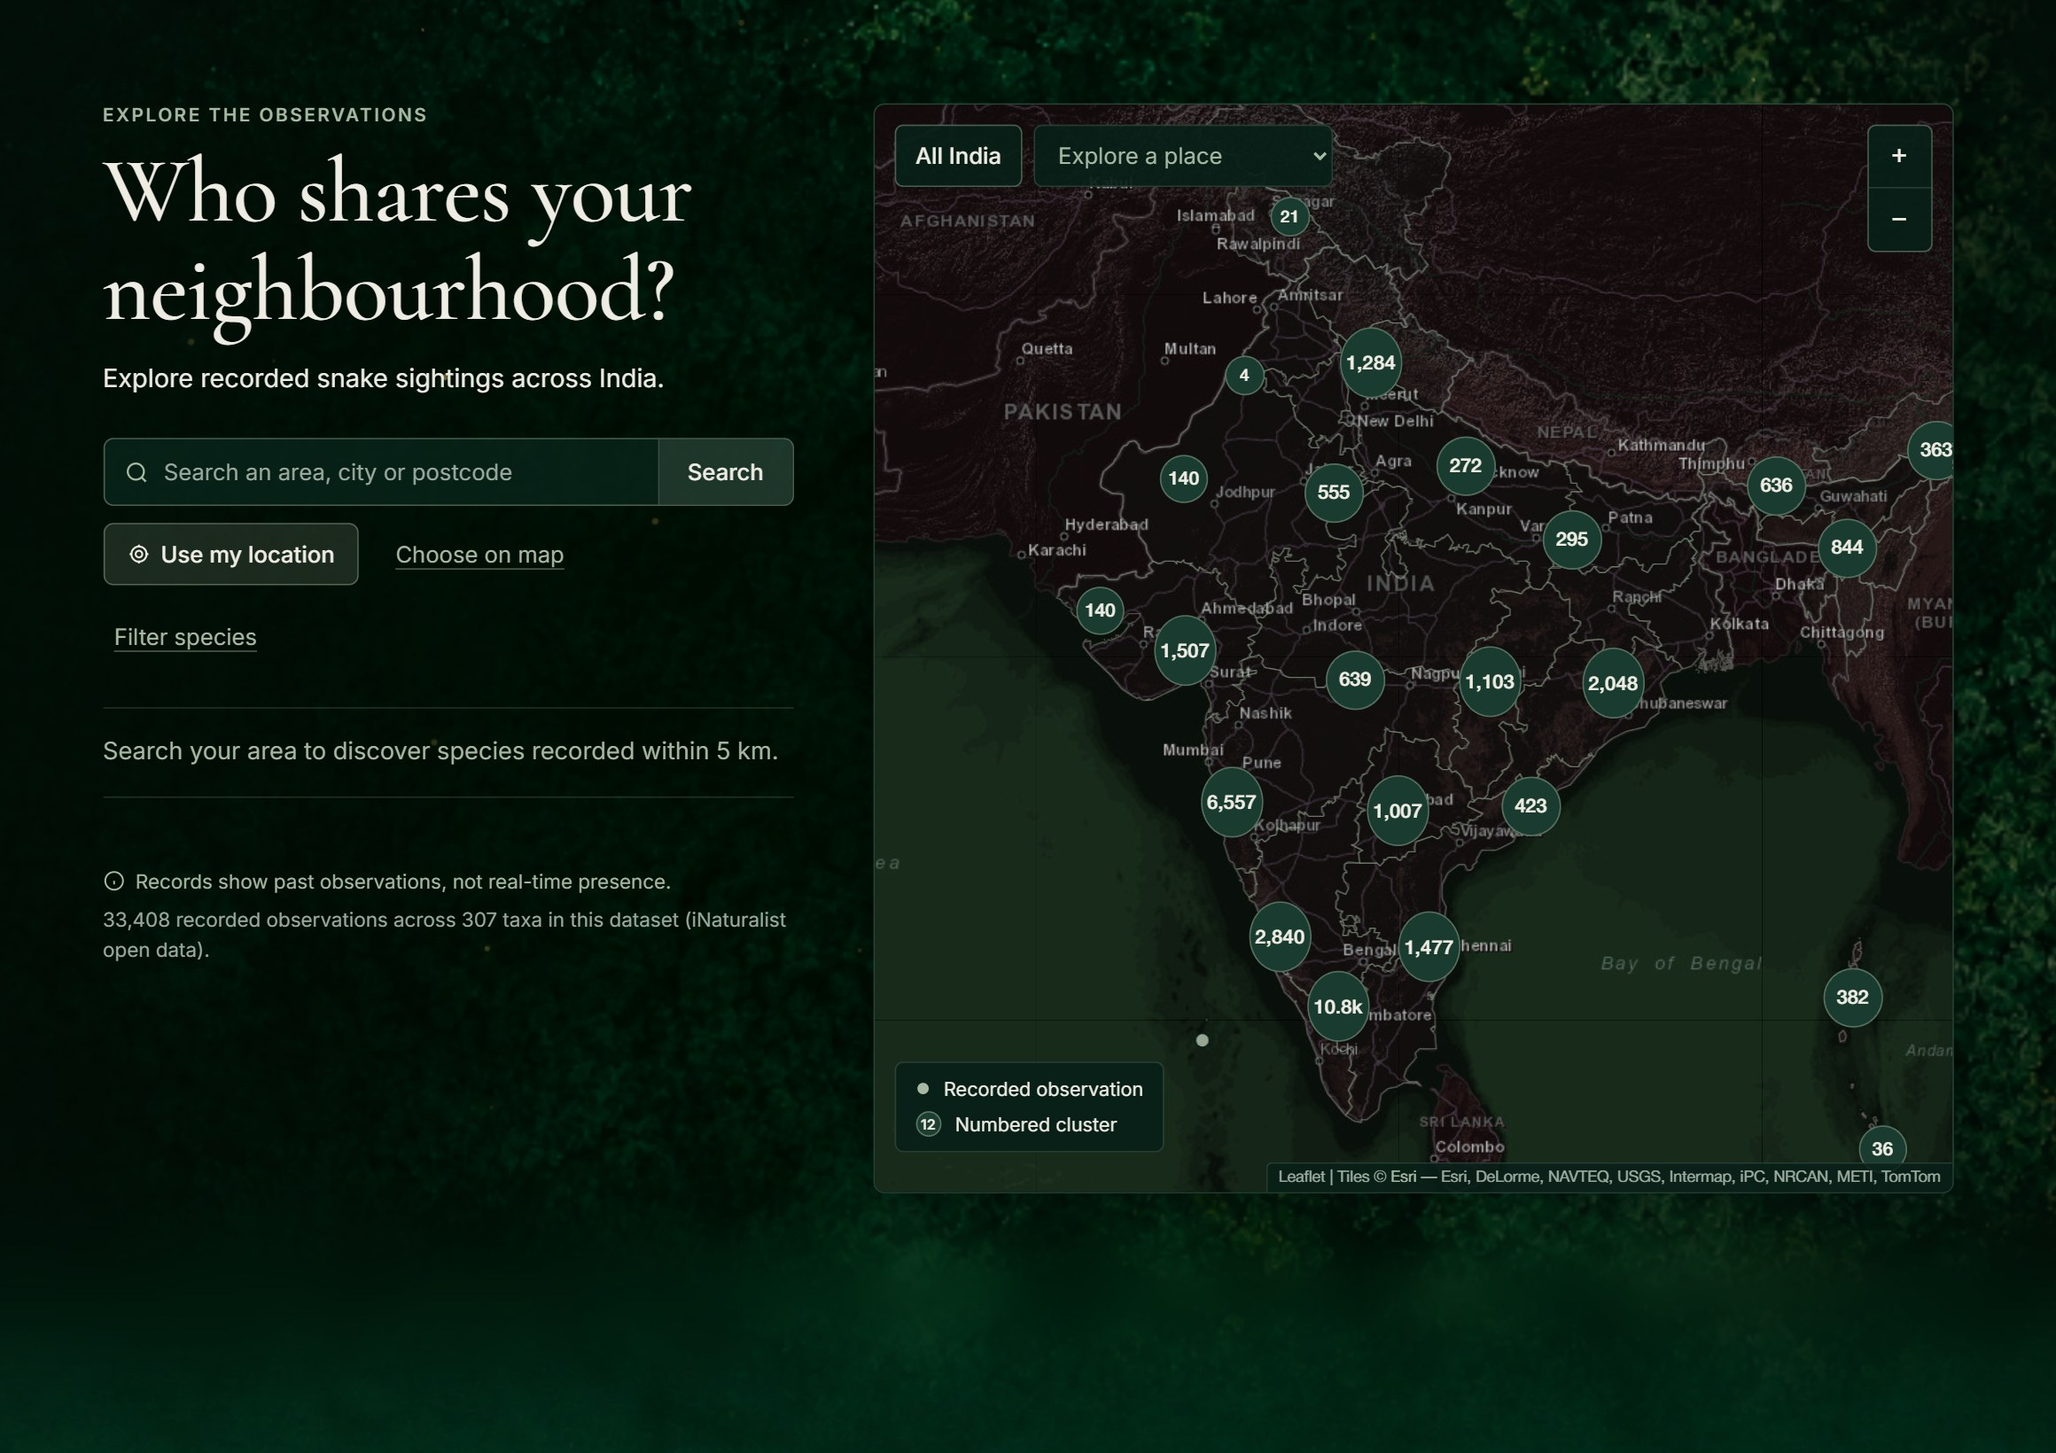
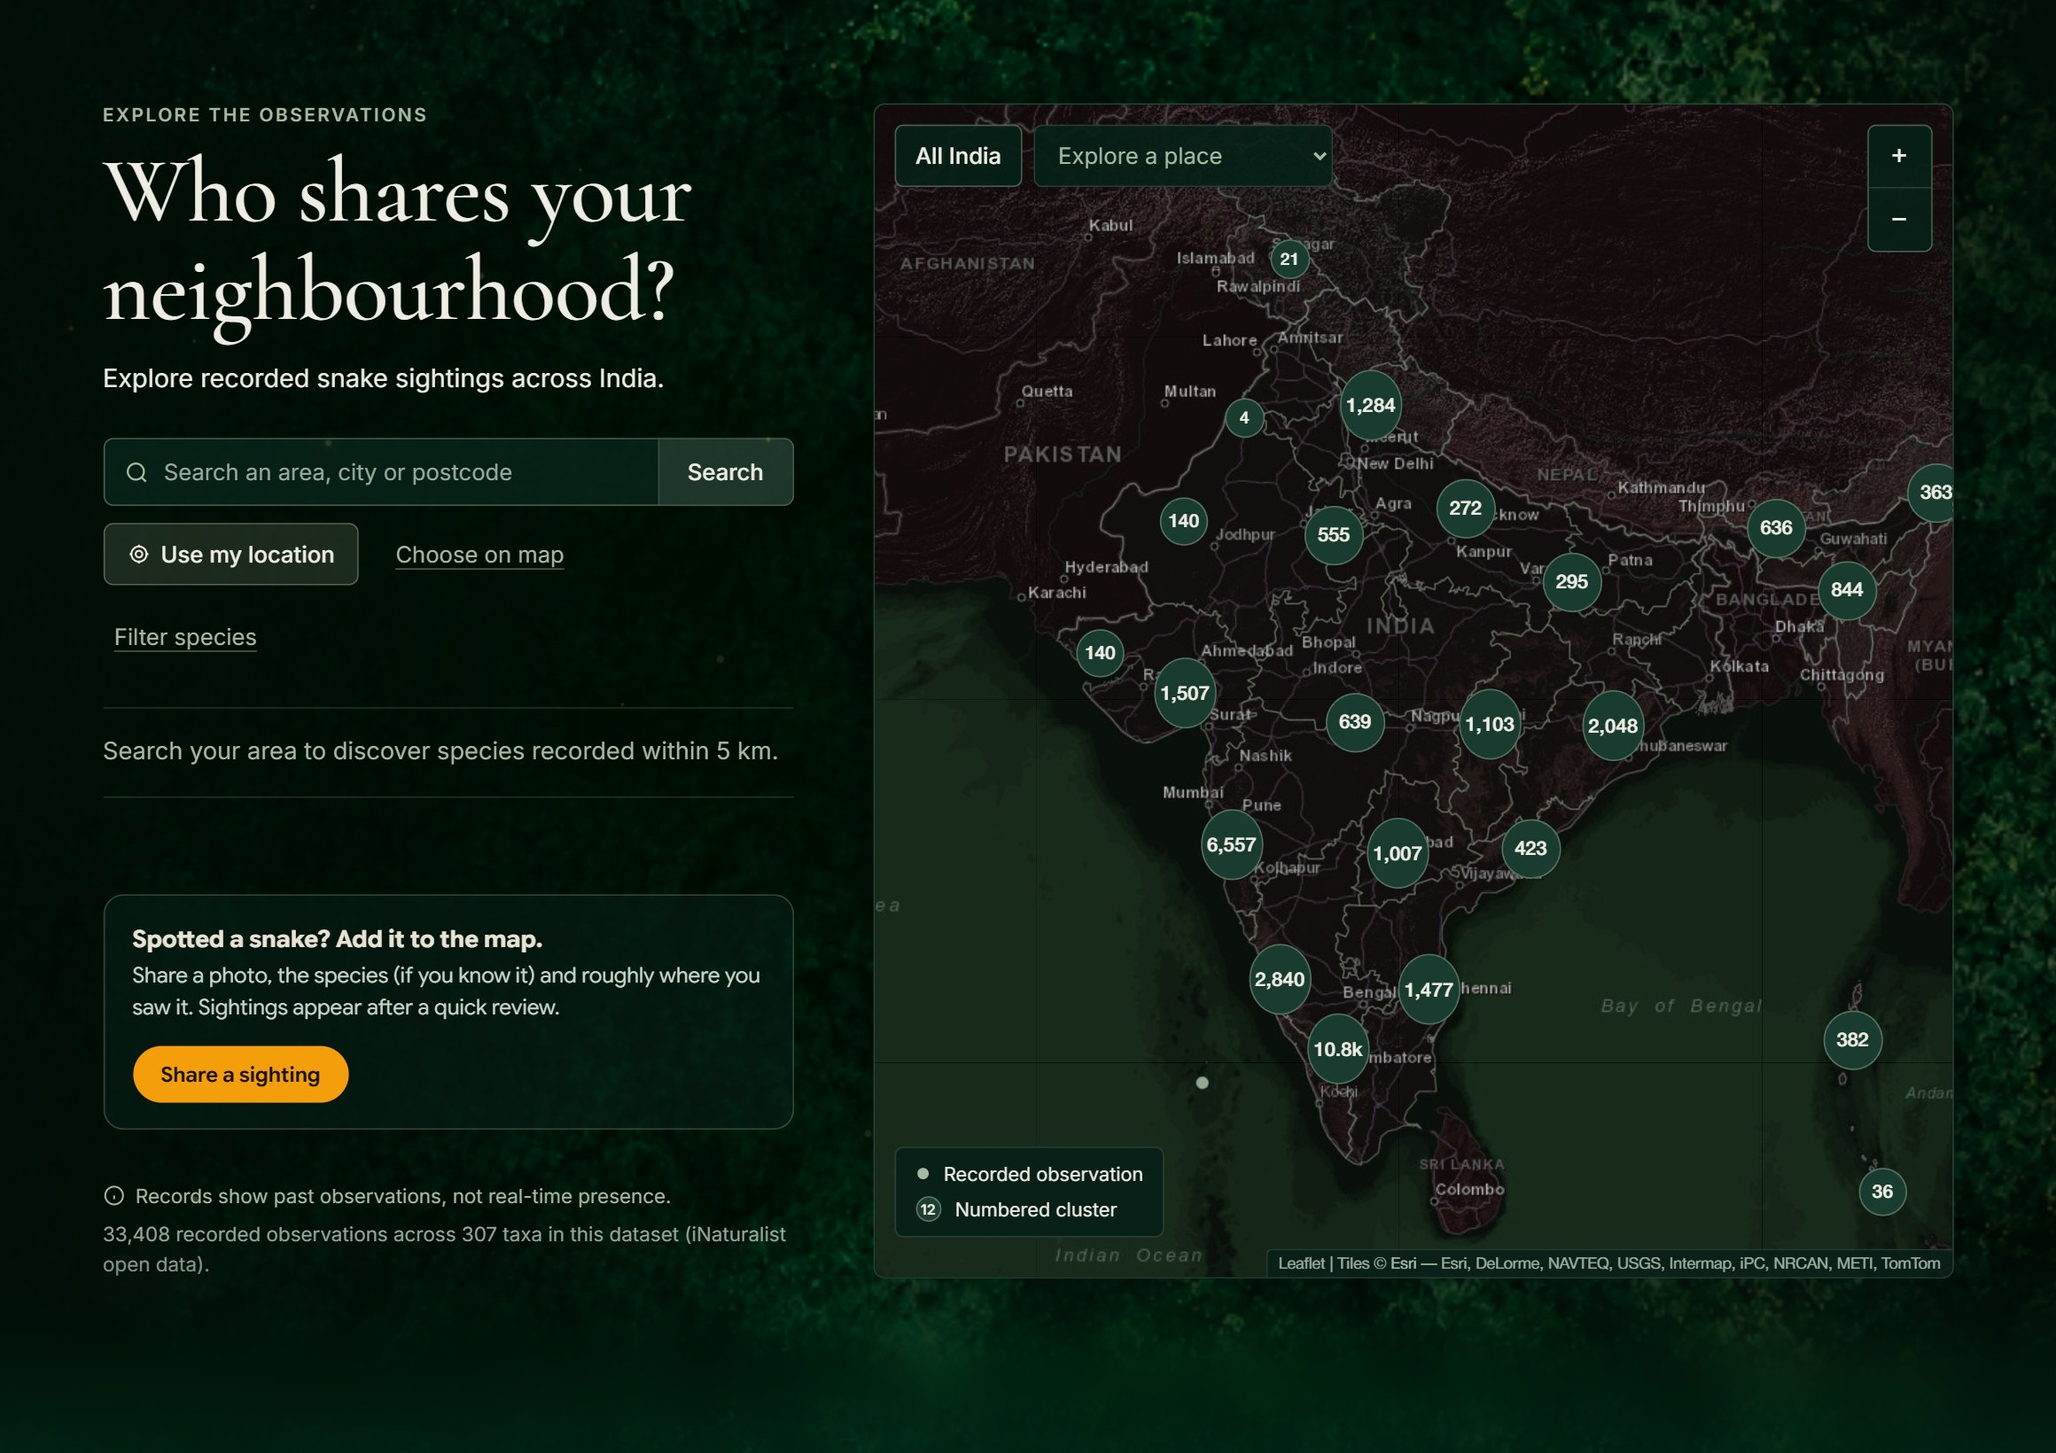
Styled project names, soft fade between projects, new snakebite link with sighting form

diff --git a/index.html b/index.html
@@ -5,7 +5,7 @@
 <meta name="viewport" content="width=device-width, initial-scale=1">
 <title>Jury Presentation</title>
 <link rel="preconnect" href="https://fonts.googleapis.com">
-<link rel="stylesheet" href="https://fonts.googleapis.com/css2?family=Cormorant+Garamond:ital,wght@0,500;0,600;1,500&family=Figtree:ital,wght@0,400;0,600;0,800;1,400&family=Schibsted+Grotesk:wght@400;500;700;800&display=swap">
+<link rel="stylesheet" href="https://fonts.googleapis.com/css2?family=Cormorant+Garamond:ital,wght@0,500;0,600;1,500&family=Figtree:ital,wght@0,400;0,600;0,800;1,400&family=Yatra+One&family=Schibsted+Grotesk:wght@400;500;700;800&display=swap">
 <style>
 /* VOICE: a spoken jury talk — one idea per screen, the work carries it.
    IDEA: one continuous canvas; every next screen hides inside a detail of the one before and the camera dives in.
@@ -45,6 +45,9 @@ img{display:block}
 .q .ring img{position:absolute;inset:0;width:100%;height:100%;object-fit:cover;transition:transform .6s}
 .q .ring:hover img{transform:scale(1.06)}
 .q .ring .port{left:55px;top:133px;width:260px;height:146px}
+.nm{position:absolute;inset:0;display:flex;flex-direction:column;align-items:center;justify-content:center;pointer-events:none}
+.nm-f{font:500 70px/.9 "Cormorant Garamond",Georgia,serif;color:#f0e9d8;background:radial-gradient(circle,rgba(4,16,10,.72),rgba(4,16,10,.3) 75%)}.nm-f i{font-size:66px;font-style:italic;margin-top:4px}
+.nm-s{font:400 92px/1 "Yatra One",Figtree,system-ui;color:#fff;background:radial-gradient(circle,rgba(16,50,120,.82) 25%,rgba(16,50,120,.45) 85%)}
 .q p{font-size:36px;line-height:1.15;font-weight:700;margin-top:44px;text-wrap:balance}
 .q small{display:block;font-size:22px;color:#6b6b66;margin-top:14px;font-weight:500}
 /* ---------- fear (forest + serif) ---------- */
@@ -53,7 +56,7 @@ img{display:block}
 .fe .lab{font-size:20px;letter-spacing:.12em;text-transform:uppercase;color:var(--grn);font-weight:700}
 .fe .mute{color:#a9b8a8}
 .tl{display:flex;gap:14px;align-items:flex-start;margin-top:18px;font-size:20px;line-height:1.3;color:#e8efe4}.tl b{flex:none;width:34px;height:34px;border-radius:50%;background:var(--grn);color:#0b1a12;display:grid;place-items:center;font-size:19px}.tl u{text-decoration:none;color:var(--grn);font-weight:700}
-.hr{position:absolute;box-sizing:border-box;border:3px solid #6fd39f;border-radius:12px;box-shadow:0 0 0 4px rgba(111,211,159,.18),0 0 24px rgba(111,211,159,.5);animation:hp 2s ease-in-out infinite}.hr b{position:absolute;width:38px;height:38px;border-radius:50%;background:#6fd39f;color:#0b1a12;display:grid;place-items:center;font-size:21px;font-style:normal}.hr b.l{left:-48px;top:7px}.hr b.r{right:-48px;top:5px}.hr b.c{left:-22px;top:-22px}@keyframes hp{50%{box-shadow:0 0 0 9px rgba(111,211,159,.08),0 0 30px rgba(111,211,159,.7)}}
+.hr{position:absolute;box-sizing:border-box;border:3px solid #6fd39f;border-radius:12px;box-shadow:0 0 0 4px rgba(111,211,159,.18),0 0 24px rgba(111,211,159,.5);animation:hp 2s ease-in-out infinite}.hr.am{border-color:#e8b04a;box-shadow:0 0 0 4px rgba(232,176,74,.18),0 0 24px rgba(232,176,74,.45);animation:none}.hr.am b{background:#e8b04a!important}.tl b.am{background:var(--amb)}.tl u.am{color:var(--amb)}.p2{transition:opacity .4s}#fP:has([data-b="3"].on) .p2,#fP:has([data-b="3"].on) #hl{opacity:0}.hr b{position:absolute;width:38px;height:38px;border-radius:50%;background:#6fd39f;color:#0b1a12;display:grid;place-items:center;font-size:21px;font-style:normal}.hr b.l{left:-48px;top:7px}.hr b.r{right:-48px;top:5px}.hr b.c{left:-22px;top:-22px}@keyframes hp{50%{box-shadow:0 0 0 9px rgba(111,211,159,.08),0 0 30px rgba(111,211,159,.7)}}
 #fs{position:fixed;inset:0;z-index:50;background:#06100a;display:none}#fs.on{display:block}#fs iframe{width:100%;height:100%;border:0}
 #fsDone{position:absolute;left:14px;top:14px;height:44px;min-width:230px;padding:0 22px;border-radius:999px;border:0;background:#6fd39f;color:#0b1a12;font:700 17px/1 "Schibsted Grotesk",system-ui,sans-serif;cursor:pointer;box-shadow:0 4px 18px rgba(0,0,0,.45)}
 #fsTip{position:absolute;left:14px;top:66px;font:14px system-ui;color:#c9d8c9;background:rgba(6,16,10,.7);padding:6px 12px;border-radius:999px;pointer-events:none}
@@ -82,6 +85,7 @@ body.infs #hud,body.infs #hint{display:none}
 .node{position:absolute;width:26px;height:26px;border-radius:50%;background:var(--blue);border:5px solid #f3f7fd;box-shadow:0 0 0 2px var(--blue)}
 .nl{position:absolute;font-size:19px;color:#33415c;text-align:center;line-height:1.2}
 /* ---------- HUD ---------- */
+#veil{position:fixed;inset:0;z-index:4;opacity:0;pointer-events:none;transition:opacity .4s ease}#veil.on{opacity:1}
 #hud{position:fixed;left:50%;bottom:14px;transform:translateX(-50%);display:flex;align-items:center;gap:4px;padding:5px;border-radius:14px;background:rgba(255,255,255,.9);border:1px solid rgba(0,0,0,.08);backdrop-filter:blur(10px);box-shadow:0 10px 30px -12px rgba(0,0,0,.35);opacity:.25;transition:opacity .3s;z-index:5}
 #hud:hover,#hud:focus-within{opacity:1}
 #hud button{all:unset;cursor:pointer;min-width:44px;height:44px;display:grid;place-items:center;border-radius:10px;font:600 15px "Schibsted Grotesk",sans-serif;color:#141414;padding:0 12px}
@@ -104,9 +108,9 @@ body.infs #hud,body.infs #hint{display:none}
 </section>
 
 <section class="scr op" id="s02" data-in="s01 p-dots" data-name="Three questions">
-  <div class="q" style="left:100px"><div class="ring c1" style="--rc:#163a28" data-go-to="f1"><img src="img/v/f-diversity.jpg" alt="" style="object-position:62% 50%"><div class="port" id="p-q1"></div></div><p>Why do we fear what we don't understand?<small>The Fear Between Us</small></p></div>
+  <div class="q" style="left:100px"><div class="ring c1" style="--rc:#163a28" data-go-to="f1"><img src="img/v/f-diversity.jpg" alt="" style="object-position:62% 50%"><div class="nm nm-f">The Fear<i>Between Us</i></div><div class="port" id="p-q1"></div></div><p>Why do we fear what we don't understand?<small>The Fear Between Us</small></p></div>
   <div class="q" style="left:580px"><div class="ring c2" style="--rc:#111" data-go-to="t1"><img src="img/v/tw13.jpg" alt="" style="transform-origin:50% 45%"><div class="port" id="p-q2"></div></div><p>How do children meet history?<small>Time Wanderers</small></p></div>
-  <div class="q" style="left:1060px"><div class="ring c3" style="--rc:#2456c8" data-go-to="a1"><img src="img/v/room.jpg" alt="" style="object-position:55% 50%"><div class="port" id="p-q3"></div></div><p>How do you prepare for a place you've never been?<small>Saath</small></p></div>
+  <div class="q" style="left:1060px"><div class="ring c3" style="--rc:#2456c8" data-go-to="a1"><img src="img/v/room.jpg" alt="" style="object-position:55% 50%"><div class="nm nm-s">Saath</div><div class="port" id="p-q3"></div></div><p>How do you prepare for a place you've never been?<small>Saath</small></p></div>
 </section>
 
 <!-- =================== 1 · THE FEAR BETWEEN US =================== -->
@@ -124,18 +128,27 @@ body.infs #hud,body.infs #hint{display:none}
   <div id="fpA" style="transition:opacity .5s"><p class="lab abs" style="left:60px;top:70px">The prototype · live</p>
   <h2 class="serif abs" style="left:56px;top:110px;font-size:64px;line-height:1;width:300px">Scroll it with the jury.</h2>
   <div class="abs" style="left:60px;top:400px;width:300px;color:#e8efe4"><span class="chip">iNaturalist data</span><span class="chip">Leaflet maps</span><span class="chip">HTML · CSS · JS</span></div></div>
-  <div data-b="2" class="abs" style="left:56px;top:70px;width:320px"><p class="lab">The tool we built</p>
+  <div data-b="2" class="abs p2" style="left:56px;top:70px;width:320px"><p class="lab">The tool we built</p>
     <h2 class="serif" style="font-size:44px;line-height:1.02;margin-top:12px">Who shares your neighbourhood?</h2>
     <div class="tl" style="margin-top:30px"><b>1</b><p><u>Search</u> any area, city or place, or tap <u>Use my location</u>.</p></div>
     <div class="tl"><b>2</b><p><u>Choose on map</u> to drop a pin anywhere in India.</p></div>
     <div class="tl"><b>3</b><p>See the species <u>recorded within 5 km</u>, from 33,408 sightings.</p></div>
-    <div class="tl"><b>4</b><p><u>Filter species</u> to find where one snake has been seen.</p></div></div>
-  <a id="fpOpen" class="btn abs" href="https://rushworks.in/projects/snakbite/" target="_blank" rel="noopener" style="left:60px;top:640px;background:var(--grn);color:#0b1a12">Open in browser ↗</a>
-  <p class="abs mute" style="left:60px;top:720px;font-size:18px;width:300px">rushworks.in/projects/snakbite</p>
+    <div class="tl"><b>4</b><p><u>Filter species</u> to find where one snake has been seen.</p></div>
+    <div class="tl"><b class="am">5</b><p><u class="am">Share a sighting</u> to register a snake you saw.</p></div></div>
+  <div data-b="3" class="abs" style="left:56px;top:70px;width:320px"><p class="lab" style="color:var(--amb)">Register a sighting</p>
+    <h2 class="serif" style="font-size:44px;line-height:1.02;margin-top:12px">Anyone can add to the map.</h2>
+    <div class="tl" style="margin-top:30px"><b class="am">1</b><p>Name the snake, or type <u class="am">“not sure”</u>.</p></div>
+    <div class="tl"><b class="am">2</b><p>Add a <u class="am">photo</u>, place and date.</p></div>
+    <div class="tl"><b class="am">3</b><p>Set the <u class="am">location</u>. Saved only to about 1 km.</p></div>
+    <div class="tl"><b class="am">4</b><p>It is <u class="am">reviewed</u> before it appears.</p></div></div>
+  <a id="fpOpen" class="btn abs" href="https://rushabhm-blip.github.io/Snakebite_dataviz_India/" target="_blank" rel="noopener" style="left:60px;top:640px;background:var(--grn);color:#0b1a12">Open in browser ↗</a>
+  <p class="abs mute" style="left:60px;top:720px;font-size:18px;width:300px">rushabhm-blip.github.io/<br>Snakebite_dataviz_India</p>
   <div class="abs" style="left:400px;top:40px;width:1160px;height:820px;border-radius:14px;overflow:hidden;border:2px solid #24402f;background:#0e2017">
-    <iframe id="proto" data-src="https://rushworks.in/projects/snakbite/" title="The Fear Between Us, live prototype" style="width:1450px;height:1025px;border:0;transform:scale(.8);transform-origin:0 0"></iframe>
+    <iframe id="proto" data-src="https://rushabhm-blip.github.io/Snakebite_dataviz_India/" title="The Fear Between Us, live prototype" style="width:1450px;height:1025px;border:0;transform:scale(.8);transform-origin:0 0"></iframe>
     <img data-b="2" src="img/v/f-tool.jpg" alt="The neighbourhood tool: search, map and species filter" style="position:absolute;left:0;top:0;width:1160px;height:820px">
-    <div id="hl" data-b="2" style="position:absolute;inset:0;pointer-events:none"><div style="position:absolute;left:0;top:0;width:1450px;height:1025px;transform:scale(.8);transform-origin:0 0"><i class="hr" style="left:67.5px;top:304.1px;width:497.1px;height:58px"><b class="l">1</b></i><i class="hr" style="left:67.5px;top:364.1px;width:190.5px;height:54px"></i><i class="hr" style="left:266px;top:364.1px;width:145px;height:54px"><b class="r">2</b></i><i class="hr" style="left:610.6px;top:67.9px;width:771.9px;height:778.8px"><b class="c">3</b></i><i class="hr" style="left:67.5px;top:422.1px;width:126.7px;height:54px"><b class="r">4</b></i></div></div>
+    <div id="hl" data-b="2" style="position:absolute;inset:0;pointer-events:none"><div style="position:absolute;left:0;top:0;width:1450px;height:1025px;transform:scale(.8);transform-origin:0 0"><i class="hr" style="left:67.5px;top:304.1px;width:497.1px;height:58px"><b class="l">1</b></i><i class="hr" style="left:67.5px;top:364.1px;width:190.5px;height:54px"></i><i class="hr" style="left:266px;top:364.1px;width:145px;height:54px"><b class="r">2</b></i><i class="hr" style="left:610.6px;top:67.9px;width:771.9px;height:839.5px"><b class="c">3</b></i><i class="hr" style="left:67.5px;top:422.1px;width:126.7px;height:54px"><b class="r">4</b></i><i class="hr am" style="left:67.5px;top:625.6px;width:497.1px;height:176.8px"><b class="r">5</b></i></div></div>
+    <img data-b="3" src="img/v/f-share.jpg" alt="The share a snake sighting form: name, photo, place, date, location" style="position:absolute;left:0;top:0;width:1160px;height:820px">
+    <div data-b="3" style="position:absolute;inset:0;pointer-events:none"><div style="position:absolute;left:0;top:0;width:1450px;height:1025px;transform:scale(.8);transform-origin:0 0"><i class="hr am" style="left:503px;top:326px;width:444px;height:52px"><b class="r">1</b></i><i class="hr am" style="left:503px;top:402px;width:444px;height:206px"><b class="r">2</b></i><i class="hr am" style="left:503px;top:635px;width:298.2px;height:52px"><b class="r">3</b></i><i class="hr am" style="left:846.9px;top:747px;width:100.1px;height:52px"><b class="r">4</b></i></div></div>
   </div>
 </section>
 
@@ -372,7 +385,8 @@ body.infs #hud,body.infs #hint{display:none}
 
 <div id="prog"></div>
 <div id="hint">→ or Space to move · ← back · click an image to look closer · Esc to the three projects · F full screen</div>
-<div id="fs"><iframe id="fsFrame" data-src="https://rushworks.in/projects/snakbite/" title="The Fear Between Us, full-screen prototype" allow="geolocation"></iframe><button id="fsDone">← Back to slides</button><span id="fsTip">Scroll the story · click “Back to slides” when you are done</span></div>
+<div id="fs"><iframe id="fsFrame" data-src="https://rushabhm-blip.github.io/Snakebite_dataviz_India/" title="The Fear Between Us, full-screen prototype" allow="geolocation"></iframe><button id="fsDone">← Back to slides</button><span id="fsTip">Scroll the story · click “Back to slides” when you are done</span></div>
+<div id="veil"></div>
 <nav id="hud" aria-label="Presentation controls">
   <button id="bPrev" aria-label="Previous">←</button>
   <button id="bHub" aria-label="Back to the three projects">Projects</button>
@@ -442,6 +456,14 @@ function fly(to){cancelAnimationFrame(anim);const it=interp({...cam},to),t0=perf
   const step=now=>{let t=Math.min(1,(now-t0)/it.dur);if(still.matches)t=1;cam=it.f(ease(t));render();if(t<1)anim=requestAnimationFrame(step)};
   anim=requestAnimationFrame(step)}
 
+// crossing between projects: a soft fade instead of flying the camera out and back in
+let at=null,vt=0;const veil=document.getElementById('veil');
+function travel(id){const a=byId[at],b=byId[id],from=at;at=id;
+  const hop=vt||(a&&a.classList[1]!=b.classList[1]&&from!='s02');
+  if(!hop){fly(viewOf(id));return}
+  clearTimeout(vt);cancelAnimationFrame(anim);veil.style.background=getComputedStyle(b).getPropertyValue('--bg').trim();veil.classList.add('on');
+  vt=setTimeout(()=>{vt=0;cam=viewOf(id);render();veil.classList.remove('on')},420)}
+
 /* ---------- path: every screen, then each of its builds ---------- */
 const path=[];
 S.forEach(e=>{path.push({id:e.id,b:0});const n=Math.max(0,...[...e.querySelectorAll('[data-b]')].map(x=>+x.dataset.b));for(let b=1;b<=n;b++)path.push({id:e.id,b})});
@@ -449,11 +471,11 @@ let idx=0,focused=null;
 const frames={yt:'t9',proto:'fP'};
 function apply(i){const cur=path[i],order=S.map(e=>e.id),ci=order.indexOf(cur.id);focused=null;
   S.forEach((e,k)=>e.querySelectorAll('[data-b]').forEach(x=>x.classList.toggle('on',k<ci||(k==ci&&+x.dataset.b<=cur.b))));
-  const scr=byId[cur.id];fly(viewOf(cur.id));
+  const scr=byId[cur.id];travel(cur.id);
   document.body.style.backgroundColor=getComputedStyle(scr).getPropertyValue('--bg').trim();
   document.body.classList.toggle('dark',scr.classList.contains('fe')||scr.classList.contains('tw'));
   for(const[fid,sid]of Object.entries(frames)){const f=document.getElementById(fid);if(cur.id==sid){if(!f.getAttribute('src'))f.src=f.dataset.src}else if(f.getAttribute('src'))f.removeAttribute('src')}
-  {const a=document.getElementById('fpA');if(a)a.style.opacity=(cur.id=='fP'&&cur.b>=2)?0:1;document.getElementById('fpOpen').href='https://rushworks.in/projects/snakbite/'+(cur.id=='fP'&&cur.b>=2?'#snakes-neighbourhood-component':'');
+  {const a=document.getElementById('fpA');if(a)a.style.opacity=(cur.id=='fP'&&cur.b>=2)?0:1;document.getElementById('fpOpen').href='https://rushabhm-blip.github.io/Snakebite_dataviz_India/'+(cur.id=='fP'&&cur.b>=2?'#snakes-neighbourhood-component':'');
   const on=cur.id=='fP'&&cur.b==1,fr=document.getElementById('fsFrame'),box=document.getElementById('fs');box.classList.toggle('on',on);document.body.classList.toggle('infs',on);
   if(on&&!fr.getAttribute('src'))fr.src=fr.dataset.src;if(cur.id!='fP'&&fr.getAttribute('src'))fr.removeAttribute('src')}
   if(cur.id!='a15')document.getElementById('saathVid').pause();
